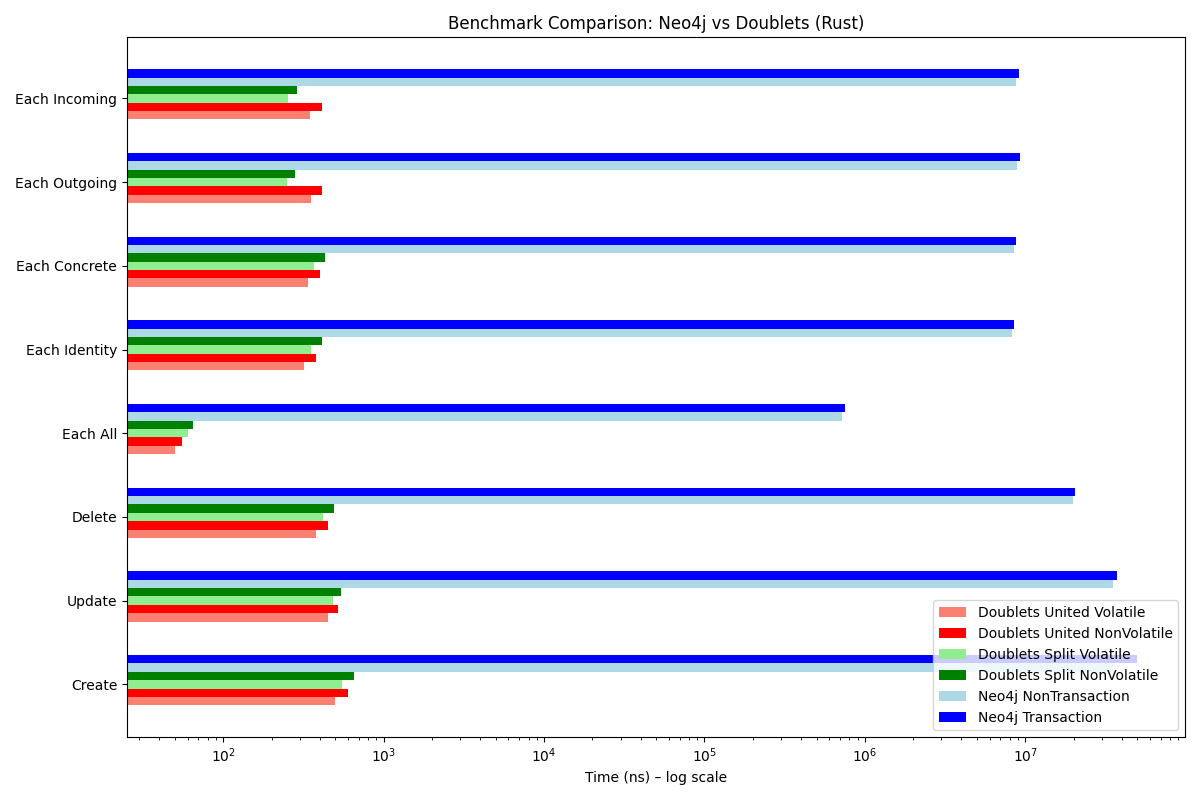
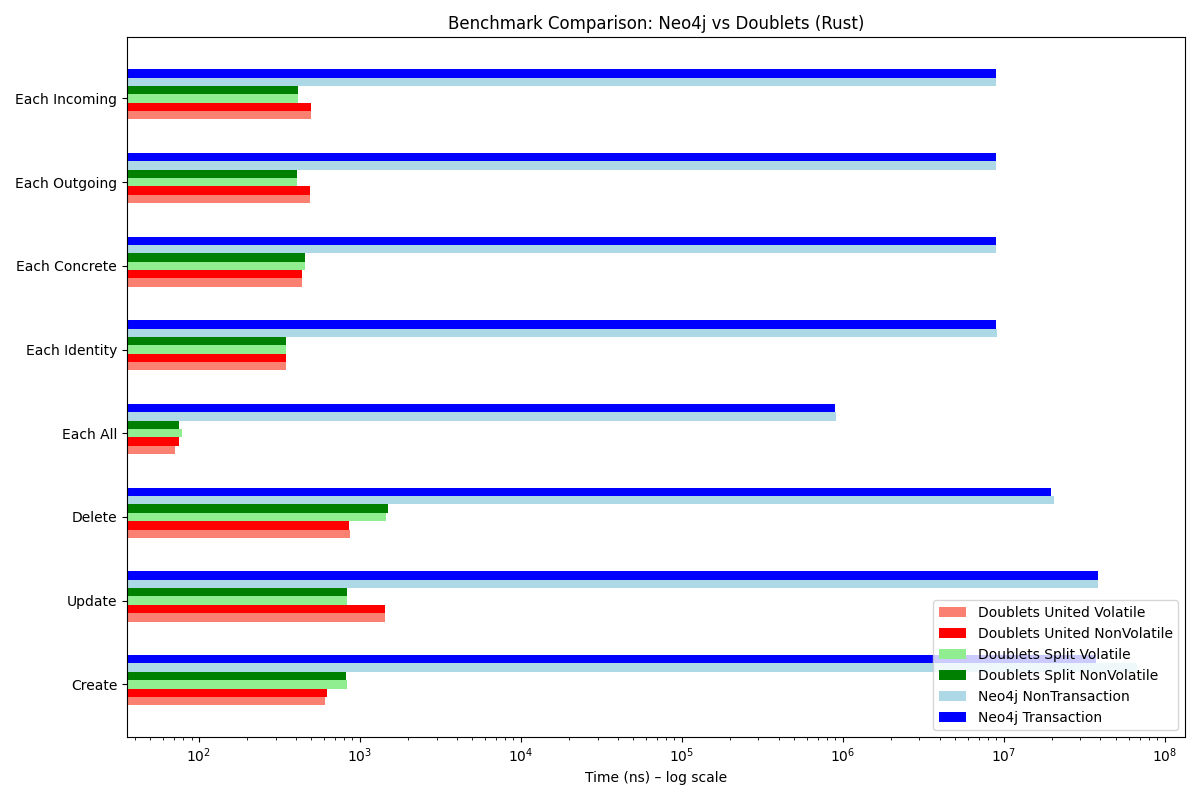
Update benchmark results

diff --git a/README.md b/README.md
@@ -32,14 +32,14 @@ The results below represent the amount of time (ns) the operation takes per iter
 
 | Operation     | Doublets United Volatile | Doublets United NonVolatile | Doublets Split Volatile | Doublets Split NonVolatile | Neo4j NonTransaction | Neo4j Transaction |
 |---------------|--------------------------|-----------------------------|-------------------------|----------------------------|----------------------|-------------------|
-| Create        | 611 (57765.2x faster)    | 620 (56926.6x faster)       | 834 (42319.6x faster)   | 858 (41135.8x faster)      | 49120269             | 35294507          |
-| Update        | 1414 (26913.2x faster)   | 1416 (26875.2x faster)      | 834 (45629.8x faster)   | 843 (45142.6x faster)      | 38055226             | 38236408          |
-| Delete        | 863 (22702.9x faster)    | 860 (22782.1x faster)       | 1450 (13512.2x faster)  | 1538 (12739.0x faster)     | 20388133             | 19592619          |
-| Each All      | 70 (12643.3x faster)     | 75 (11800.5x faster)        | 78 (11346.6x faster)    | 91 (9725.6x faster)        | 890548               | 885034            |
-| Each Identity | 348 (25015.2x faster)    | 348 (25015.2x faster)       | 347 (25087.3x faster)   | 355 (24522.0x faster)      | 8717748              | 8705304           |
-| Each Concrete | 439 (19801.3x faster)    | 437 (19891.9x faster)       | 459 (18938.5x faster)   | 488 (17813.0x faster)      | 8699769              | 8692766           |
-| Each Outgoing | 489 (17696.7x faster)    | 489 (17696.7x faster)       | 408 (21210.0x faster)   | 426 (20313.8x faster)      | 8668635              | 8653675           |
-| Each Incoming | 495 (17403.3x faster)    | 494 (17438.5x faster)       | 411 (20960.2x faster)   | 442 (19490.1x faster)      | 8614639              | 8619381           |
+| Create        | 611 (61154.8x faster)    | 627 (59594.2x faster)       | 834 (44802.8x faster)   | 826 (45236.8x faster)      | 67353721             | 37365570          |
+| Update        | 1435 (26744.7x faster)   | 1439 (26670.4x faster)      | 832 (46128.2x faster)   | 835 (45962.5x faster)      | 38378690             | 38625040          |
+| Delete        | 864 (22821.8x faster)    | 858 (22981.4x faster)       | 1460 (13505.5x faster)  | 1500 (13145.4x faster)     | 20491228             | 19718029          |
+| Each All      | 71 (12619.6x faster)     | 75 (11946.6x faster)        | 78 (11487.1x faster)    | 75 (11946.6x faster)       | 911366               | 895992            |
+| Each Identity | 348 (25839.9x faster)    | 348 (25839.9x faster)       | 348 (25839.9x faster)   | 348 (25839.9x faster)      | 9057924              | 8992288           |
+| Each Concrete | 438 (20347.9x faster)    | 436 (20441.2x faster)       | 455 (19587.6x faster)   | 454 (19630.8x faster)      | 8979834              | 8912371           |
+| Each Outgoing | 489 (18286.3x faster)    | 488 (18323.8x faster)       | 407 (21970.5x faster)   | 407 (21970.5x faster)      | 8941998              | 8987035           |
+| Each Incoming | 495 (18017.9x faster)    | 494 (18054.4x faster)       | 411 (21700.4x faster)   | 411 (21700.4x faster)      | 8918865              | 8934565           |
 
 ## Conclusion
 
